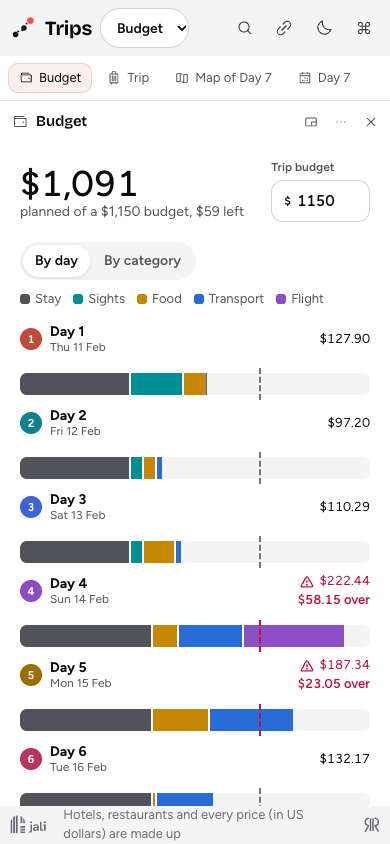
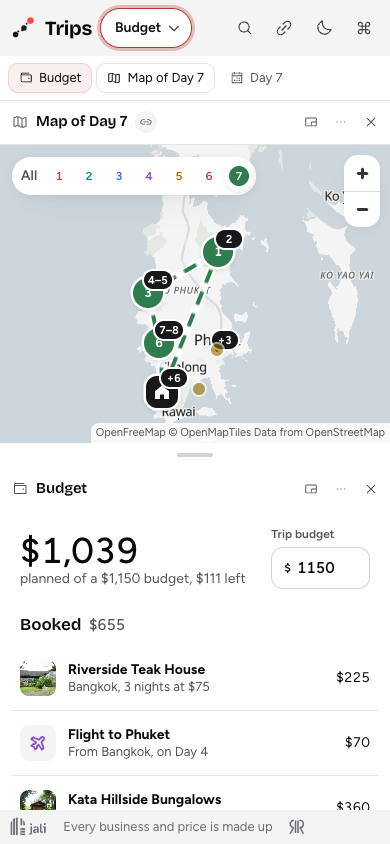
Trips: the browser tests and screenshots for the new structure

diff --git a/examples/trips/e2e/screens.spec.ts b/examples/trips/e2e/screens.spec.ts
@@ -25,10 +25,10 @@ async function stage(page: Page, name: string, dark: boolean) {
   const key = page.getByRole("navigation", { name: "Layouts" }).getByRole("button", { name });
   // A phone picks the layout from a menu instead.
   if (await key.isVisible()) await key.click();
-  else
-    await page
-      .getByRole("combobox", { name: "Layout", exact: true })
-      .selectOption(name.toLowerCase());
+  else {
+    await page.getByRole("combobox", { name: "Layout", exact: true }).click();
+    await page.getByRole("option", { name, exact: true }).click();
+  }
   await expect(page.locator("html")).toHaveAttribute("data-theme", dark ? "dark" : "light");
   // Every map on screen has drawn its tiles (it is busy until then).
   for (const map of await page.getByRole("region", { name: /^Map\. / }).all())

diff --git a/examples/trips/e2e/trips.spec.ts b/examples/trips/e2e/trips.spec.ts
@@ -50,7 +50,9 @@ test("the map renders, and a pin selects its place everywhere", async ({ page })
 test("pins that would cover each other make one pile, which names them and opens when pressed", async ({
   page,
 }) => {
-  // Budget's small map frames Day 7, which spans the north of Phuket: its stops crowd at that zoom.
+  // At 1024, Budget's map is narrow beside the budget and the day, and frames Day 7, which spans the north of Phuket:
+  // its stops crowd at that zoom.
+  await page.setViewportSize({ width: 1024, height: 768 });
   await layout(page, "Budget").click();
   const map = pane(page, "map");
   // A pile of the day's own stops says their numbers; the hotel's, with other days' stops in it, how many.
